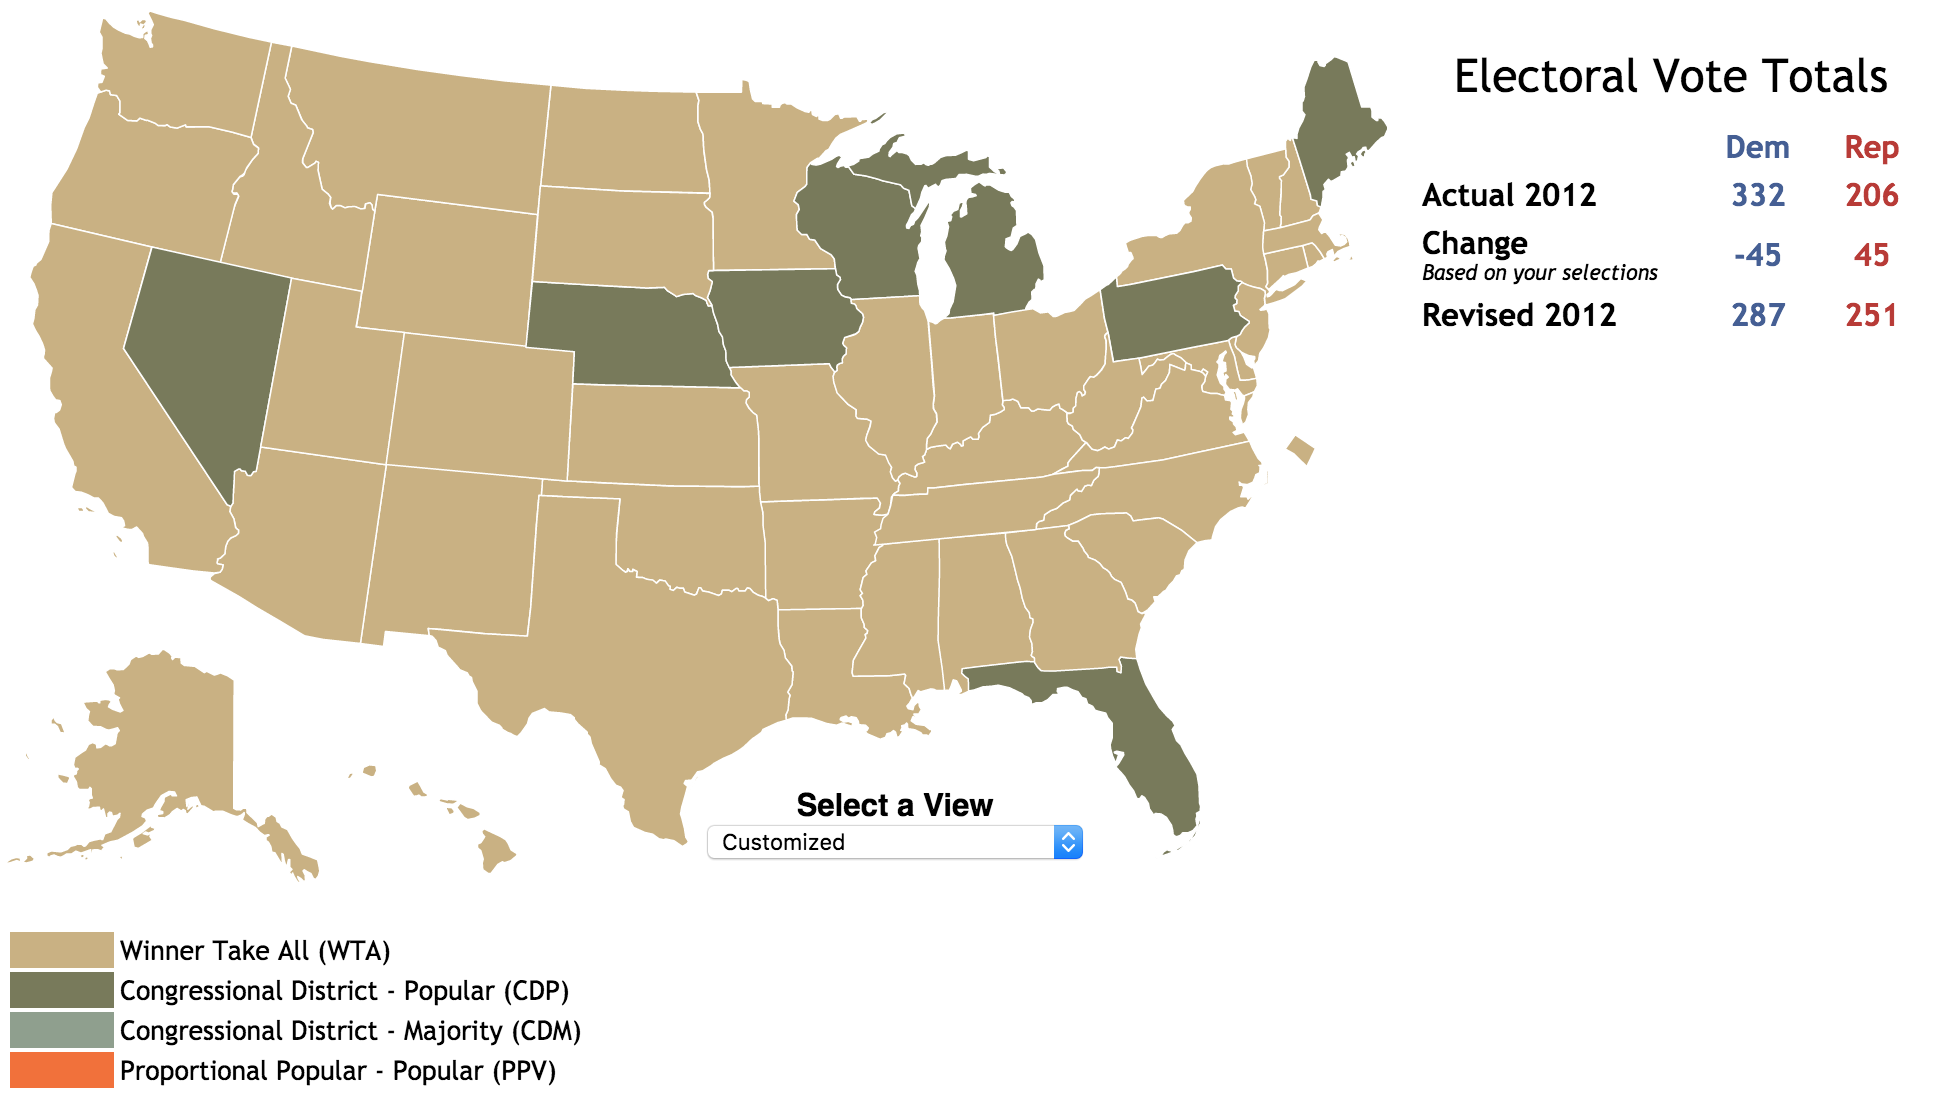
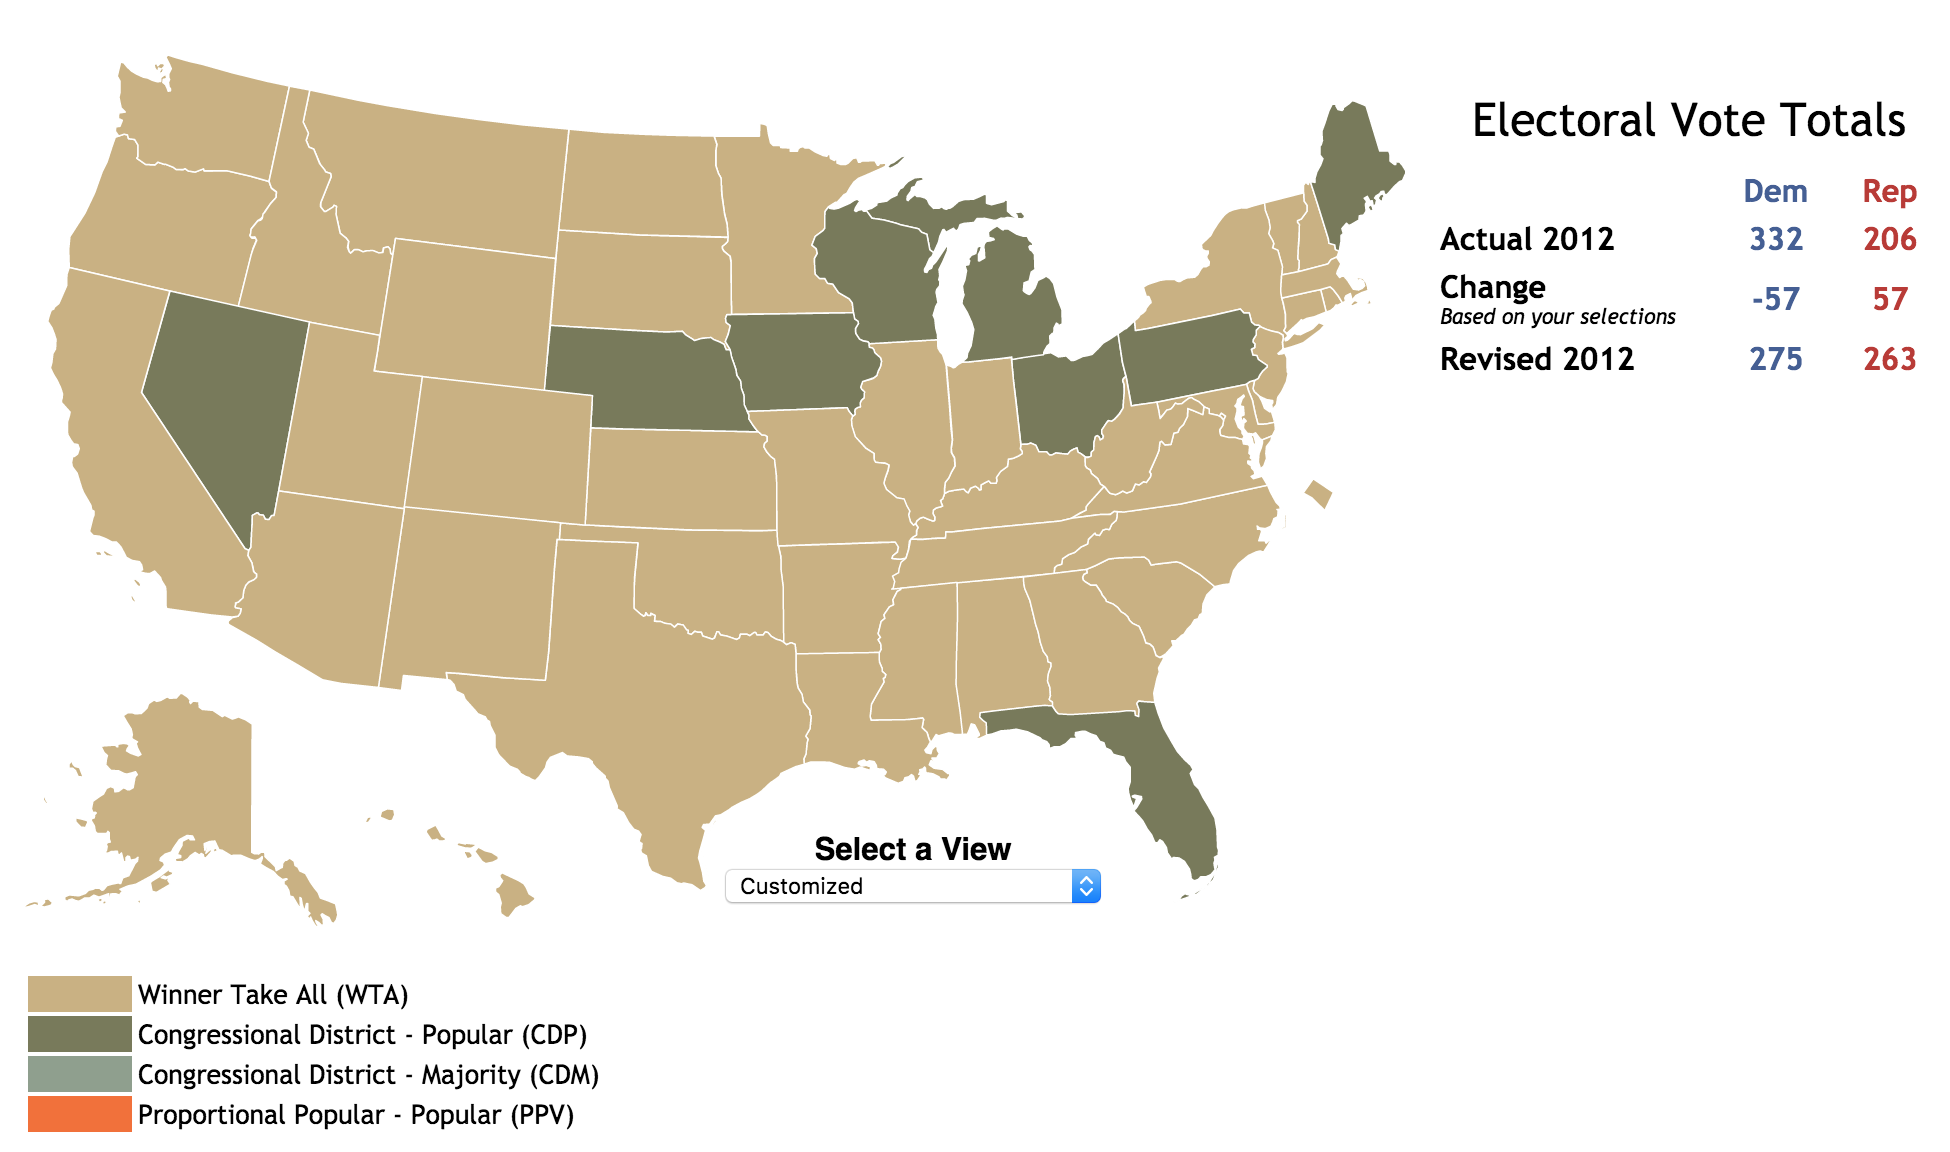
Add Ohio + some footnotes

diff --git a/index.html b/index.html
@@ -20,7 +20,6 @@
 
   <link rel="stylesheet" href="css/style.css">
 
-  <base target="_blank">
 </head>
 
 <body id="home">
@@ -28,14 +27,16 @@
   <h2>Or, &ldquo;One Weird Trick that Republicans Can Use to Keep the White House Indefinitely!&rdquo;</h2>
   <h4>Alex Nisnevich<br>11-22-2016</h4>
 
+  <p><em>Update (11-23-2016): Added Ohio to the list of vulnerable states.</em></p>
+
   <p>In U.S. presidential elections, most states award all of their electoral votes to the winner of the popular vote, but nothing says that this has to be the case. In fact, prior to 1832, there was a wide variety of methods of selecting electors:</p>
 
   <p class="img">
     <img src="images/electoral-selection-methods.png" width="600px" />
-    <span class="caption">Source: <a href="https://en.wikipedia.org/wiki/Electoral_College_(United_States)#Alternative_methods_of_choosing_electors">Wikipedia</a>.</span>
+    <span class="caption">Source: <a href="https://en.wikipedia.org/wiki/Electoral_College_(United_States)#Alternative_methods_of_choosing_electors" target="_blank">Wikipedia</a>.</span>
   </p>
 
-  <p>Today, two states apportion their electoral votes based on the winner of the popular vote in each congressional district<sup data-for="remaining-votes"></sup>: Maine (since 1972) and Nebraska (since 1992). Given how few congressional districts each state has (2 for Maine and 3 for Nebraska), this system rarely changes the outcome, though Obama won one electoral vote from Nebraska in 2008 and <a href="https://ballotpedia.org/Presidential_election_in_Maine,_2016">Trump won one from Maine this year</a>.</p>
+  <p>Today, two states apportion their electoral votes based on the winner of the popular vote in each congressional district<sup data-for="remaining-votes"></sup>: Maine (since 1972) and Nebraska (since 1992). Given how few congressional districts each state has (2 for Maine and 3 for Nebraska), this system rarely changes the outcome, though Obama won one electoral vote from Nebraska in 2008 and <a href="https://ballotpedia.org/Presidential_election_in_Maine,_2016" target="_blank">Trump won one from Maine this year</a>.</p>
 
   <p>What would it look like if a larger state were to adopt this electoral system?</p>
 
@@ -43,10 +44,10 @@
 
   <p class="img">
     <img src="images/wisconsin.jpg" width="285px" />
-    <span class="caption">Source: <a href="http://archive.jsonline.com/blogs/news/189585801.html">Milwaukee Journal Sentinel</a>.</span>
+    <span class="caption">Source: <a href="http://archive.jsonline.com/blogs/news/189585801.html" target="_blank">Milwaukee Journal Sentinel</a>.</span>
   </p>
 
-  <p>Despite Wisconsin generally being a blue state, and voting Democratic in every presidential race since 1988 except 2016, it has consistently had 5 Republican and 3 Democratic representatives, largely thanks to gerrymandering (note that it has <a href="https://en.wikipedia.org/wiki/Cook_Partisan_Voting_Index#By_congressional_district">two extremely D-leaning districts and four slightly R-leaning districts</a>, by Cook PVI, suggesting an imbalanced districting map).</p>
+  <p>Despite Wisconsin generally being a blue state, and voting Democratic in every presidential race since 1988 except 2016, it has consistently had 5 Republican and 3 Democratic representatives, largely thanks to gerrymandering (note that it has <a href="https://en.wikipedia.org/wiki/Cook_Partisan_Voting_Index#By_congressional_district" target="_blank">two extremely D-leaning districts and four slightly R-leaning districts</a>, by Cook PVI, suggesting an imbalanced districting map).<sup data-for="wisconsin-gerrymandering"></sup></p>
 
   <p>This means that if Wisconsin were to split up 8 of its electoral votes based on district results, Republicans would be all-but-guaranteed to get 5 electoral votes minimum in the state, regardless of what the actual vote is.</p>
 
@@ -59,6 +60,7 @@
     <li>Iowa (6 EVs)
     <li>Michigan (16 EVs)
     <li>Nevada (6 EVs)
+    <li>Ohio (18 EVs)
     <li>Pennsylvania (20 EVs)<sup data-for="pennsylvania"></sup>
   </ul>
 
@@ -68,43 +70,43 @@
 
   <p class="img">
     <img src="images/2012-actual.png" width="600px" />
-    <span class="caption">Source: <a href="http://www.270towin.com/">270ToWin</a>.</span>
+    <span class="caption">Source: <a href="http://www.270towin.com/" target="_blank">270ToWin</a>.</span>
   </p>
 
-  <p>But what if the six states that we've just been talking about (Florida, Iowa, Michigan, Nevada, Pennsylvania, and Wisconsin) had all awarded their electoral votes using the Maine/Nebraska system that year?</p>
+  <p>But what if the seven states that we've just been talking about (Florida, Iowa, Michigan, Nevada, Ohio, Pennsylvania, and Wisconsin) had all awarded their electoral votes using the Maine/Nebraska system that year?</p>
 
   <p class="img">
     <img src="images/2012-split1.png" width="700px" />
-    <span class="caption">Source: <a href="http://www.270towin.com/">270ToWin</a>.</span>
+    <span class="caption">Source: <a href="http://www.270towin.com/" target="_blank">270ToWin</a>.</span>
   </p>
 
   <p>In fact, these states could have gone a little further and rewarded their remaining 2 electoral votes to the winner of the majority of congressional districts (rather than to the winner of the statewide popular vote)<sup data-for="this-is-real"></sup>:</p>
 
   <p class="img">
     <img src="images/2012-split2.png" width="700px" />
-    <span class="caption">Source: <a href="http://www.270towin.com/">270ToWin</a>.</span>
+    <span class="caption">Source: <a href="http://www.270towin.com/" target="_blank">270ToWin</a>.</span>
   </p>
 
-  <p><em>And would you look at that?</em> Obama's once-sizable 126-point lead has evaporated and he only ends up winning by a hair, thanks to having carried essentially every swing state that year (Virginia, Ohio, Colorado, and Florida itself)</p>
+  <p><em>And would you look at that?</em> Obama's once-sizable 126-point lead has evaporated completely and he ends up narrowly losing the electoral vote.</p>
 
   <p>This is what the electoral college map ultimately looks like in this scenario:</p>
 
   <p class="img">
     <img src="images/2012-split3.png" width="600px" />
-    <span class="caption">Source: <a href="http://www.270towin.com/">270ToWin</a>.</span>
+    <span class="caption">Source: <a href="http://www.270towin.com/" target="_blank">270ToWin</a>.</span>
   </p>
 
-  <p>Note that despite our hypothetical Obama <em>winning</em> the popular vote in Florida, Michigan, Pennsylvania, and Wisconsin, in some cases by large margins, he still ends up losing the electorical vote in all of these states. And this map is close to a best-case scenario<sup data-for="best-case"></sup> for Democrats under this electoral vote configuration.<sup data-for="try-it-yourself"></sup></p>
+  <p>Note that despite our hypothetical Obama <em>winning</em> the popular vote in Florida, Michigan, Ohio, Pennsylvania, and Wisconsin, in some cases by large margins, he still ends up losing the electorical vote in all of these states. And this map is close to a best-case scenario<sup data-for="best-case"></sup> for Democrats under this electoral vote configuration.<sup data-for="try-it-yourself"></sup></p>
 
   <p>So, what's stopping Republican state legislatures from going through with this?</p>
 
-  <p>Nothing, really. Since 2010, proposals to adopt the Maine/Nebraska method have been made in <a href="http://www.slate.com/blogs/weigel/2011/09/13/pennsylvania_ponders_bold_democrat_screwing_electoral_plan.html">Pennsylvania</a>, <a href="http://www.freep.com/story/news/local/michigan/2014/11/14/michigan-vote-presidential/19029459/">Michigan</a>, and <a href="http://www.jsonline.com/news/statepolitics/walker-open-to-changing-states-electoral-college-allocations-8884ck6-184566961.html">Wisconsin</a>.</p>
+  <p>Nothing, really. Since 2010<sup data-for="2010"></sup>, proposals to adopt the Maine/Nebraska method have been made in <a href="http://www.slate.com/blogs/weigel/2011/09/13/pennsylvania_ponders_bold_democrat_screwing_electoral_plan.html" target="_blank">Pennsylvania</a>, <a href="http://www.freep.com/story/news/local/michigan/2014/11/14/michigan-vote-presidential/19029459/" target="_blank">Michigan</a>, and <a href="http://www.jsonline.com/news/statepolitics/walker-open-to-changing-states-electoral-college-allocations-8884ck6-184566961.html" target="_blank">Wisconsin</a>.</p>
 
-  <p>So far, none of these proposals have gone through, but Republicans now have more control over the legislatures of each of these states than ever before, with <a href="https://en.wikipedia.org/wiki/List_of_United_States_state_legislatures">overwhelming legislative majorities in each</a>. I'd be very surprised if at least one of these states doesn't make a push for this at some point soon, though perhaps with Trump winning Florida, Pennsylvania, Wisconsin, and (likely) Michigan this year, this may become seen as less of a priority.</p>
+  <p>So far, none of these proposals have gone through, but Republicans now have more control over the legislatures of each of these states than ever before, with <a href="https://en.wikipedia.org/wiki/List_of_United_States_state_legislatures" target="_blank">overwhelming legislative majorities in each</a>. I'd be very surprised if at least one of these states doesn't make a push for this at some point soon, though perhaps with Trump winning Florida, Pennsylvania, Wisconsin, and (likely) Michigan this year, this may become seen as less of a priority.</p>
 
   <p>One other reason that these proposals may fall through is that if they're widely perceived as being blatantly partisan, this could mobilize voter turnout to help Democrats take over state houses in time for the 2020 redistricting, this leaving open the possibility of this tool ultimately being used against Republicans. But this is all speculation at this point.</p>
 
-  <p>If nothing else, this serves to illustrate just how important state politics are. Not only have Republicans <a href="http://www.vox.com/conversations/2016/10/5/13097066/gerrymandering-redistricting-republican-party-david-daley-karl-rove-barack-obama">enjoyed a significant edge in House races</a> since 2010 largely due to control of the redistricting process, but even the distribution of electoral votes could be manipulated by state politics.</p>
+  <p>If nothing else, this serves to illustrate just how important state politics are. Not only have Republicans <a href="http://www.vox.com/conversations/2016/10/5/13097066/gerrymandering-redistricting-republican-party-david-daley-karl-rove-barack-obama" target="_blank">enjoyed a significant edge in House races</a> since 2010 largely due to control of the redistricting process, but even the distribution of electoral votes could be manipulated by state politics.</p>
 
   <p>Democrats don't seem to have had a solid strategy for winning state legislative seats for a while now:</p>
 
@@ -114,15 +116,19 @@
 
   <p>Now would be a great time to fix that.</p>
 
+  <p><em>Thanks to Dmitry Mazin for talking through this with me.</em></p>
+
   <h3>Footnotes</h3>
 
   <ol id="footnotes">
     <li data-footnote="remaining-votes">The remaining 2 electoral votes are given to the winner of the statewide popular vote.</li>
-    <li data-footnote="pennsylvania">When I made these maps, I neglected to notice that Pennsylvania has had a Democratic governor since 2014. I'm still opting to include it in the list because Republicans in both state houses have <a href="https://en.wikipedia.org/wiki/List_of_United_States_state_legislatures">nearly a veto-proof majority</a>.</li>
+    <li data-footnote="wisconsin-gerrymandering">In fact, the gerrymandering in Wisconsin is so bad that a U.S. district court <a href="http://www.slate.com/blogs/future_tense/2016/11/22/wisconsin_partisan_gerrymander_the_supreme_court_could_take_the_case.html" target="_blank">just issued a landmark ruling</a> against it.</li>
+    <li data-footnote="pennsylvania">When I made these maps, I neglected to notice that Pennsylvania has had a Democratic governor since 2014. I'm still opting to include it in the list because Republicans in both state houses have <a href="https://en.wikipedia.org/wiki/List_of_United_States_state_legislatures" target="_blank">nearly a veto-proof majority</a>.</li>
     <li data-footnote="2012">I'm focusing on 2012 because it was the most recent election won by a Democrat.</li>
-    <li data-footnote="this-is-real">This may sound like a rather far-fetched vote allocation method, but it's actually been proposed in <a href="http://www.richmondsunlight.com/bill/2013/sb723/fulltext/">Virginia</a>.</li>
-    <li data-footnote="best-case">Democrats could start regularly winning states like North Carolina, but then the Republicans in control of North Carolina's legislature and governorship could institute this vote allocation method there too.</li>
-    <li data-footnote="try-it-yourself">You can try this simulation yourself on <a href="http://www.270towin.com/alternative-electoral-college-allocation-methods/">270ToWin</a>.</li>
+    <li data-footnote="this-is-real">This may sound like a rather far-fetched vote allocation method, but it's actually been proposed in <a href="http://www.richmondsunlight.com/bill/2013/sb723/fulltext/" target="_blank">Virginia</a>.</li>
+    <li data-footnote="best-case">Democrats' best chance under this configuration is to win North Carolina, but then the Republicans in control of North Carolina's legislature and governorship could institute this vote allocation method there too.</li>
+    <li data-footnote="try-it-yourself">You can try this simulation yourself on <a href="http://www.270towin.com/alternative-electoral-college-allocation-methods/" target="_blank">270ToWin</a>.</li>
+    <li data-footnote="2010">The year 2010 is significant because Republicans took over the legislatures <a href="https://en.wikipedia.org/wiki/Statewide_legislative_elections_in_the_United_States,_2010#State-by-state" target="_blank">of all three states &mdash; Michigan, Pennsylvania, and Wisconsin</a> &mdash; that year.</li>
   </ol>
 
   <script>
